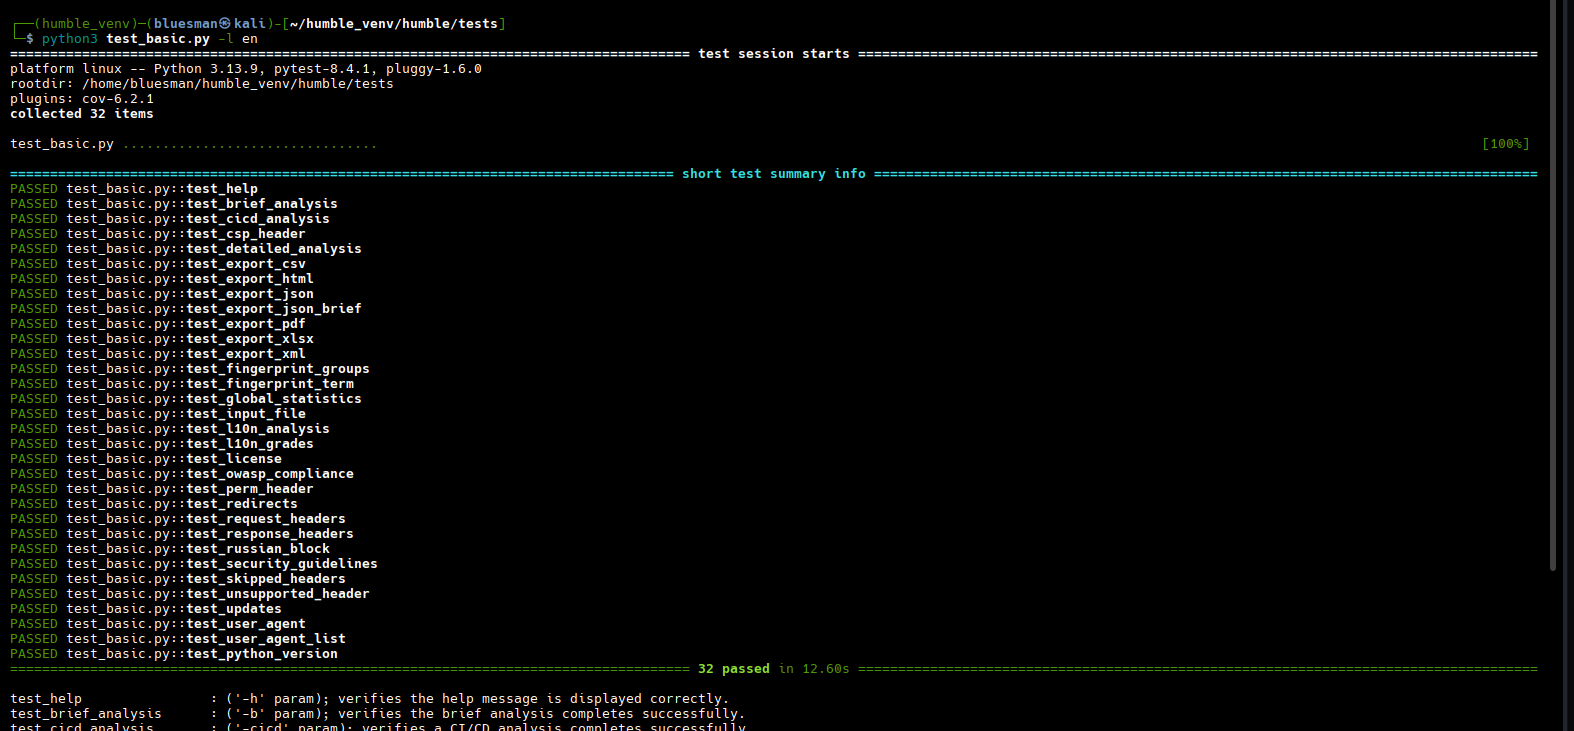
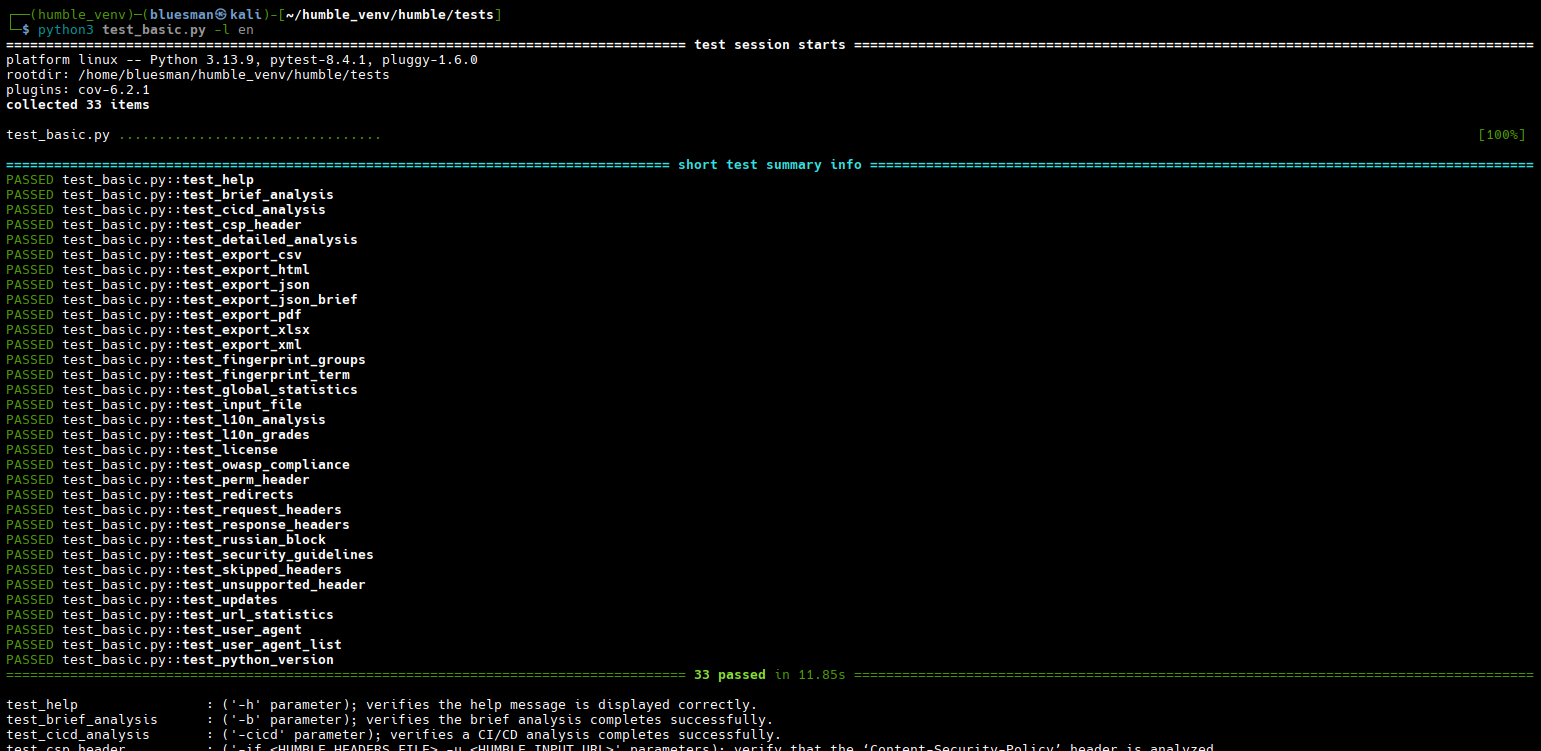
Feature: 1 new unit test and 80% code coverage

Changed region(s): [[0.0, 0.0, 0.9968, 1.0]]

diff --git a/tests/test_basic.py b/tests/test_basic.py
@@ -28,6 +28,7 @@ HUMBLE_INPUT_URL = 'https://github.com'
 HUMBLE_L10N_DIR = path.join(HUMBLE_PROJECT_ROOT, 'l10n')
 HUMBLE_L10N_FILE = ('details.txt', 'details_es.txt')
 HUMBLE_MAIN_FILE = path.abspath(path.join(HUMBLE_TESTS_DIR, '..', 'humble.py'))
+HUMBLE_STATISTICS_URL = 'https://en.wikipedia.org/'
 INPUT_FILE_URL = "https://github.com"
 REQUIRED_PYTHON = (3, 11)
 TEST_RUSSIAN_URL = 'https://tass.ru/'
@@ -74,6 +75,8 @@ TEST_CFGS = {
     'test_unsupported_header': (['-u', TEST_URL, '-s', 'testhumbleheader'],
                                 'testhumbleheader'),
     'test_updates': (['-v'], 'Keeping your security tools'),
+    'test_url_statistics': (['-u', HUMBLE_STATISTICS_URL, '-a'],
+                            'Empty headers'),
     'test_user_agent': (['-u', TEST_URL, '-ua', '4'],
                         'Selected the User-Agent'),
     'test_user_agent_list': (['-ua', '0'], 'source: '),
@@ -91,8 +94,8 @@ TEST_SUMMS = ('[test_help]', '[test_brief_analysis]', '[test_cicd_analysis]',
               '[test_response_headers]', '[test_russian_block]',
               '[test_security_guidelines]', '[test_skipped_headers]',
               '[test_unsupported_header]', '[test_updates]',
-              '[test_user_agent]', '[test_user_agent_list]',
-              '[test_python_version]')
+              '[test_url_statistics]', '[test_user_agent]',
+              '[test_user_agent_list]', '[test_python_version]')
 
 
 class _Args:

diff --git a/README.md b/README.md
@@ -23,7 +23,7 @@
 <a target="_blank" href="https://github.com/rfc-st/humble/actions/workflows/bandit-security-scan.yml" title="Results of the last analysis of this tool with bandit, for critical or high vulnerabilities"><img src="https://github.com/rfc-st/humble/actions/workflows/bandit-security-scan.yml/badge.svg"></a>
 <a target="_blank" href="https://github.com/rfc-st/humble/actions/workflows/codeql-analysis.yml?query=workflow%3ACodeQL" title="CodeQL security analysis passed"><img src="https://github.com/rfc-st/humble/workflows/CodeQL/badge.svg"></a>
 <a target="_blank" href="https://humble.readthedocs.io/en/latest/" title="humble documentation status"><img src="https://img.shields.io/badge/documentation-passing-32bd50?labelColor=343b41"></a>
-<a target="_blank" href="https://github.com/rfc-st/humble/?tab=readme-ov-file#unit-tests" title="humble code coverage"><img src="https://img.shields.io/badge/code%20coverage-77%25-f9d71c?labelColor=343b41"></a>
+<a target="_blank" href="https://github.com/rfc-st/humble/?tab=readme-ov-file#unit-tests" title="humble code coverage"><img src="https://img.shields.io/badge/code%20coverage-80%25-f9d71c?labelColor=343b41"></a>
 <a target="_blank" href="https://www.bestpractices.dev/projects/9543" title="OpenSSF best practices analysis"><img src="https://www.bestpractices.dev/projects/9543/badge"></a>
 <br />
 <br />
